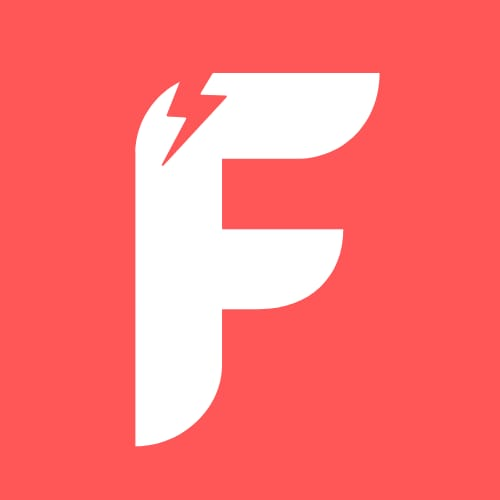
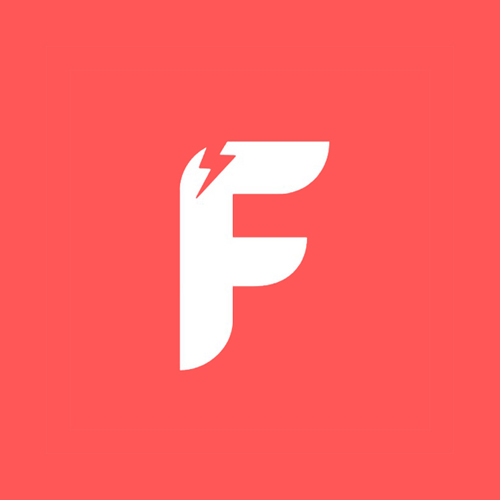
Updating to latest FlutterFlow output.

Changed region(s): [[0.27, 0.12, 0.78, 0.9]]

diff --git a/lib/main.dart b/lib/main.dart
@@ -78,14 +78,11 @@ class _MyAppState extends State<MyApp> {
       themeMode: _themeMode,
       home: initialUser == null || displaySplashImage
           ? Container(
-              color: FlutterFlowTheme.of(context).alternate,
-              child: Center(
-                child: Builder(
-                  builder: (context) => Image.asset(
-                    'assets/images/WhatsApp_Image_2022-06-18_at_7.07.50_PM.jpeg',
-                    width: MediaQuery.of(context).size.width * 0.5,
-                    fit: BoxFit.contain,
-                  ),
+              color: Color(0xFFFF5757),
+              child: Builder(
+                builder: (context) => Image.asset(
+                  'assets/images/app_launcher_icon.png',
+                  fit: BoxFit.contain,
                 ),
               ),
             )
